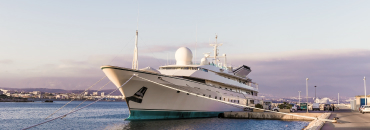
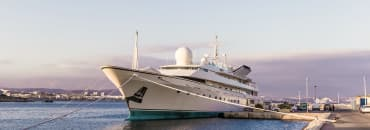
Fix
Added optimized images.

diff --git a/news.html b/news.html
@@ -1,0 +1,355 @@
+<!DOCTYPE html>
+<html lang="ru">
+  <head>
+    <meta charset="utf-8">
+    <meta name="viewport" content="width=device-width, initial-scale=1">
+    <link href="css/style.css" rel="stylesheet">
+    <title>Яхт клуб. Новости</title>
+  </head>
+  <body>
+    <header class="page-header">
+      <nav class="main-nav container">
+        <a class="logo" href="index.html">
+          <img src="img/logo.svg" width="64" height="68" alt="Логотип яхт клуба">
+        </a>
+        <ul class="site-navigation">
+          <li class="site-navigation-item">
+            <a href="#">Наш клуб</a>
+          </li>
+          <li class="site-navigation-item">
+            <a href="#">Регаты</a>
+          </li>
+          <li class="site-navigation-item">
+            <a href="#">Команда</a>
+          </li>
+          <li class="site-navigation-item">
+            <a href="#">Обучение</a>
+          </li>
+          <li class="site-navigation-item">
+            <a href="#">Новости</a>
+          </li>
+          <li class="site-navigation-item">
+            <a href="#">Контакты</a>
+          </li>
+        </ul>
+        <a class="signin" href="#">
+          <img src="img/account.svg" width="36" height="36" alt="Кабинет пользователя">
+        </a>
+      </nav>
+    </header>
+    <main class="main-content container">
+      <ul class="breadcrumbs">
+        <li class="breadcrumbs-item">
+          <a class="breadcrumbs-link" href="#">Главная</a>
+        </li>
+        <li class="breadcrumbs-item">
+          <a class="breadcrumbs-link" href="#">Новости</a>
+        </li>
+        <li class="breadcrumbs-item">
+          <a class="breadcrumbs-link active" href="#">Открытие школы яхтинга “BigRace”</a>
+        </li>
+      </ul>
+      <article class="main-news">
+        <header class="main-news-header">
+          <h1>Открытие школы яхтинга “BigRace” в Калининграде</h1>
+          <time datetime="2021-01-30">30 января 2021</time>
+          <dl class="main-news-header-meta">
+            <div>
+              <dt>Автор статьи: </dt>
+              <dd>Константин Жуков</dd>
+            </div>
+            <div>
+              <dt>Фотограф: </dt>
+              <dd>Леонид Яровой</dd>
+            </div>
+          </dl>
+          <img src="img/photo.jpg" width="600" height="363" alt="Двое мужчин управляют парусником">
+          <p>Профессиональное сообщество яхтсменов празднует открытие крупнейшей школы яхтинга в Калининграде. Кто в ней преподает, чему там можно научиться и на кого она рассчитана? Обо всем этом нам рассказал Михаил Чернов, известный спортсмен и владелец компании BigRace.</p>
+        </header>
+        <div class="main-news-content">
+          <div class="block-with-aside">
+            <p>Надо ли напоминать, что Михаил – лауреат премии «Яхтсмен века», победитель открытого чемпионата Испании по океанским гонкам, держатель рекорда пересечения Атлантики «в четыре руки» на яхте Class 20. Исходя из всех заслуг спортсмена, можно смело заявить, что он настоящий профессионал своего дела. Ученикам его школы, как новичкам, так и бывалым яхтсменам, однозначно повезло. В школе Михаила будет преподавать он сам, а также лучшие спортсмены России и других стран: Испании, Франции, Черногории и др.</p>
+            <blockquote class="quote">
+              <p class="signature"><cite>Михаил</cite> поставил цель создать не просто школу, а что-то большее:</p>
+              <p>«Я хотел, чтобы каждый ученик школы чувствовал себя частью большой и сильной команды. Это не просто слова, мы проделали огромную работу, чтобы это стало возможным: проводим специальные мероприятия, тренинги, собрания и многое другое.»</p>
+            </blockquote>
+            <p class="question">Михаил, расскажите, чем ваша школа отличается от других школ яхтинга в России?</p>
+            <p class="answer">Во-первых, это крупнейшая школа в Калининграде и одна из самых крупных в России. Школа оборудована самым современным и разнообразным оборудованием. А еще, у нас будут преподавать не только самые опытные яхтсмены России, но и спортсмены из других стран. <mark>Школа рассчитана не только на новичков, опытные яхтсмены тоже найдут здесь для себя много полезного, смогут повысить квалификацию</mark>.</p>
+            <p class="question">Как пришла идея открыть свою школу?</p>
+            <p class="answer">Ко мне обращались любители парусного спорта, интересовались, где можно продолжить обучение, тренироваться, найти единомышленников. Я мог посоветовать лишь пару школ, и то в Сочи или Москве, в нашем городе такой не было. Мы объединились с Николаем Петровым, победителем <a href="#">Sochi Race Week 2019</a>, и создали свою школу, которая отвечает всем потребностям новичков и профессионалов.</p>
+            <aside class="aside">
+              <h2>Похожие статьи</h2>
+              <ul>
+                <li>
+                  <a href="#">Премия “Яхстмен года 2021”</a>
+                </li>
+                <li>
+                  <a href="#">Лучшие школы яхтинга</a>
+                </li>
+              </ul>
+            </aside>
+          </div>
+          <figure>
+            <img src="img/photo-2.jpg" width="1170" height="530" alt="">
+            <figcaption>Михаил Чернов и Николай Петров</figcaption>
+          </figure>
+          <div class="main-news-column">
+            <p class="question">Расскажите, пожалуйста, подробнее о преподавателях</p>
+            <p class="answer">Одним из преподавателей буду я. В основном, я буду проводить отдельные мастер-классы для опытных моряков, но иногда буду проводить занятия и у начальных групп. Ведущим преподавателем начальных групп будет Никита Гуляев, очень опытный спортсмен, лауреат премии «Яхтсмен года 2020». Из приглашенных тренеров у нас Уильям Джонсон, Рэй Гилберт и Сэм Ли. Но, конечно, мы планируем как можно чаще приглашать и других яхтсменов.</p>
+            <p class="question">Планируете ли вы какие-либо регаты уже в этом году?</p>
+            <p class="answer">Да, конечно! По вторникам проводим традиционный общий мастер-класс, в среду гонку среди любителей, четверги посвящаем матч-рейсу. В пятницу даем передышку, а в субботу ждем начинающих яхтсменов на совмещенное занятие – теория плюс практика на воде. По воскресеньям мы будем проводить Royal Sunday Race. Гонка стартует в четыре часа дня, чтобы люди могли отдохнуть, пообщаться и  зарядиться энергией на всю оставшуюся неделю.</p>
+          </div>
+          <blockquote class="quote quote-great">
+            <p>Ставить себе цели, двигаться к ним шаг за шагом, стремиться к знаниям. Самое важное – постоянно набираться опыта и знаний. И обязательно верить в себя!</p>
+            <p class="signature">совет всем любителям яхтинга от <cite>Коллина Трейси</cite></p>
+          </blockquote>
+          <div class="block-with-aside">
+            <p class="question">Есть ли у вас в спорте пример для подражания?</p>
+            <p class="answer">Мне очень нравятся истории простых людей, которые смогли добиться успеха и признания. Особенно тех, кто не был рожден в спортивной или богатой семье, не имел возможности тренироваться на высоком уровне в детстве, кто сам создал себя. Коллин Трейси – мой кумир. С него и началась моя любовь к яхтингу. Однажды, мне даже довелось увидеться с ним лично. Тогда он дал мне совет и его слова я запомнил на всю жизнь. Это мой девиз, который теперь и я передаю своим ученикам.</p>
+            <p class="question">Расскажите о яхтах вашей школы</p>
+            <p class="answer">В нашем флоте более 40 современных моделей яхт, таких как: </p>
+            <ul class="marked-list">
+              <li>Bavaria 47</li>
+              <li>Bavaria 50</li>
+              <li>Bavaria 46</li>
+              <li>Bavaria 42</li>
+              <li>Bavaria 40</li>
+              <li>Jeanneau SO 35</li>
+              <li>Jeanneau SO 36</li>
+            </ul>
+            <p class="question">Видно, что вы отлично подготовились! Желаем успеха и дальнейшего развития вашей школе!</p>
+            <p class="answer">Спасибо! Приходите к нам на обучение и мероприятия. Будем всех вас очень ждать!</p>
+            <aside class="aside">
+              <ul>
+                <li>
+                  <a href="#">Коллин Трейси – легенда яхтинга</a>
+                </li>
+              </ul>
+            </aside>
+          </div>
+        </div>
+        <footer class="main-news-footer">
+          <div class="main-news-footer-row">
+            <ul class="hashtags">
+              <li class="hashtag">
+                <a href="#">Обучение</a>
+              </li>
+              <li class="hashtag">
+                <a href="#">Калининград</a>
+              </li>
+              <li class="hashtag">
+                <a href="#">Интервью</a>
+              </li>
+            </ul>
+          </div>
+          <div class="main-news-footer-row">
+            <p>Поделиться статьей:</p>
+            <ul class="main-news-footer-social-list">
+              <li class="main-news-footer-social-item">
+                <a href="#">
+                  <img src="img/facebook.svg" alt="Facebook" width="9" height="16">
+                </a>
+              </li>
+              <li class="main-news-footer-social-item">
+                <a href="#">
+                  <img src="img/twitter.svg" alt="Twitter" width="18" height="16">
+                </a>
+              </li>
+              <li class="main-news-footer-social-item">
+                <a href="#">
+                  <img src="img/instagram.svg" alt="Instagram" width="18" height="18">
+                </a>
+              </li>
+            </ul>
+          </div>
+        </footer>
+      </article>
+      <section class="section other-news">
+        <h2>Другие новости</h2>
+        <ul class="news-list news-list-inner">
+          <li class="news-item">
+            <article class="news-article">
+              <figure class="news-article-img">
+                <img src="img/news-photo-2.jpg" width="270" height="130" alt="Белый лайнер">
+                <figcaption>Участник выставки – яхта Golsling 3.15</figcaption>
+              </figure>
+              <h3>
+                <a href="#">Выставка Sochi Boat Show</a>
+              </h3>
+              <p>Выставка катеров и яхт Sochi Boat Show пройдет с 19 по 29 июля 2020 года в нашем яхт-клубе. В программе будет демонстрация и тест-драйвы водомоторной техники, яркое шоу и спортивная регата. Ждем всех желающих!</p>
+              <footer class="news-article-footer">
+                <a href="#">Денис Иванов</a>
+                <time datetime="2020-06-05">15.06.2020</time>
+                <img class="news-article-author-img" src="img/author-photo-2.jpg" width="300" height="300" alt="Денис Иванов">
+                <a class="news-share" href="#">
+                  <span class="visually-hidden">Поделиться</span>
+                </a>
+              </footer>
+            </article>
+          </li>
+          <li class="news-item">
+            <article class="news-article">
+              <figure class="news-article-img">
+                <img src="img/news-photo-3.jpg" width="270" height="130" alt="Женщина в гидрокостюме за штурвалом парусного судна">
+                <figcaption>Участница регаты 2019 Ирина Петрова</figcaption>
+              </figure>
+              <h3>
+                <a href="#">Регате быть!</a>
+              </h3>
+              <p>Из-за карантина весенние регаты отменили, но мы надеялись, что летние соревнования состоятся. С радостью сообщаем, что летняя регата Race Sochi Sail все же состоится в августе следующего года!</p>
+              <footer class="news-article-footer">
+                <a href="#">Денис Иванов</a>
+                <time datetime="2020-06-10">10.06.2020</time>
+                <img class="news-article-author-img" src="img/author-photo-2.jpg" width="300" height="300" alt="Денис Иванов">
+                <a class="news-share" href="#">
+                  <span class="visually-hidden">Поделиться</span>
+                </a>
+              </footer>
+            </article>
+          </li>
+          <li class="news-item">
+            <article class="news-article">
+              <figure class="news-article-img">
+                <img src="img/news-photo-4.jpg" width="270" height="130" alt="Мужчина в жёлтой футболке натягивает канат и управляет парусом">
+                <figcaption>Участник регаты 2020 Иван Семенов</figcaption>
+              </figure>
+              <h3>
+                <a href="#">Итоги весенних регат</a>
+              </h3>
+              <p>Весенние регаты были очень впечатляющими, это отметили и участники и зрители. Вместе с председателем совета федерации яхтинга Михаилом Сергеевичем Ивановым мы обсудим результаты прошедшей регаты.</p>
+              <footer class="news-article-footer">
+                <a href="#">Денис Иванов</a>
+                <time datetime="2020-06-05">05.06.2020</time>
+                <img class="news-article-author-img" src="img/author-photo-2.jpg" width="300" height="300" alt="Денис Иванов">
+                <a class="news-share" href="#">
+                  <span class="visually-hidden">Поделиться</span>
+                </a>
+              </footer>
+            </article>
+          </li>
+          <li class="news-item">
+            <article class="news-article">
+              <figure class="news-article-img">
+                <img src="img/news-photo-5.jpg" width="270" height="130" alt="Стоянка яхт">
+                <figcaption>Выставка Sail Boat Europe 2020</figcaption>
+              </figure>
+              <h3>
+                <a href="#">Новинки яхт 2020</a>
+              </h3>
+              <p>На выставке Sail Boat Europe были представлены новые модели яхт разных классов. Удивительные инновации, совершенные технологии представлены участниками выставки.</p>
+              <footer class="news-article-footer">
+                <a href="#">Денис Иванов</a>
+                <time datetime="2020-06-01">01.06.2020</time>
+                <img class="news-article-author-img" src="img/author-photo-2.jpg" width="300" height="300" alt="Денис Иванов">
+                <a class="news-share" href="#">
+                  <span class="visually-hidden">Поделиться</span>
+                </a>
+              </footer>
+            </article>
+          </li>
+        </ul>
+      </section>
+    </main>
+    <footer class="main-footer">
+      <div class="main-footer-wrapper container">
+        <div class="main-footer-column">
+          <a class="main-footer-logo" href="index.html">
+            <img src="img/logo.svg" width="100" height="106" alt="Логотип яхт клуба">
+          </a>
+          <a class="policy" href="#">Политика конфиденциальности </a>
+          <p class="copyright">Яхтклуб ©2018 Все права защищены</p>
+        </div>
+        <dl class="main-footer-links">
+          <div>
+            <dt>Компания</dt>
+            <dd>
+              <ul class="main-footer-link-list">
+                <li>
+                  <a class="main-footer-link" href="#">О нас</a>
+                </li>
+                <li>
+                  <a class="main-footer-link" href="#">Команда</a>
+                </li>
+                <li>
+                  <a class="main-footer-link" href="#">Новости</a>
+                </li>
+                <li>
+                  <a class="main-footer-link" href="#">Блог</a>
+                </li>
+                <li>
+                  <a class="main-footer-link" href="#">Галерея</a>
+                </li>
+              </ul>
+            </dd>
+          </div>
+          <div>
+            <dt>Яхт-клуб</dt>
+            <dd>
+            <ul class="main-footer-link-list">
+              <li>
+                <a class="main-footer-link" href="#">Правила</a>
+              </li>
+              <li>
+                <a class="main-footer-link" href="#">Стоимость</a>
+              </li>
+              <li>
+                <a class="main-footer-link" href="#">Анкета</a>
+              </li>
+              <li>
+                <a class="main-footer-link" href="#">FAQ</a>
+              </li>
+              <li>
+                <a class="main-footer-link" href="#">Партнеры</a>
+              </li>
+            </ul>
+            </dd>
+          </div>
+          <div>
+            <dt>Услуги</dt>
+            <dd>
+            <ul class="main-footer-link-list">
+              <li>
+                <a class="main-footer-link" href="#">Аренда яхты</a>
+              </li>
+              <li>
+                <a class="main-footer-link" href="#">Свадьба на яхте</a>
+              </li>
+              <li>
+                <a class="main-footer-link" href="#">День рождения</a>
+              </li>
+              <li>
+                <a class="main-footer-link" href="#">Бизнес-встречи</a>
+              </li>
+              <li>
+                <a class="main-footer-link" href="#">Прогулки</a>
+              </li>
+            </ul>
+            </dd>
+          </div>
+          <div>
+            <dt>Регаты</dt>
+            <dd>
+            <ul class="main-footer-link-list">
+              <li>
+                <a class="main-footer-link" href="#">Корпоративные регаты</a>
+              </li>
+              <li>
+                <a class="main-footer-link" href="#">Календарь мероприятий</a>
+              </li>
+              <li>
+                <a class="main-footer-link" href="#">Стать участником</a>
+              </li>
+              <li>
+                <a class="main-footer-link" href="#">Результаты регат</a>
+              </li>
+              <li>
+                <a class="main-footer-link" href="#">Обучение</a>
+              </li>
+            </ul>
+            </dd>
+          </div>
+        </dl>
+      </div>
+    </footer>
+  </body>
+</html>
